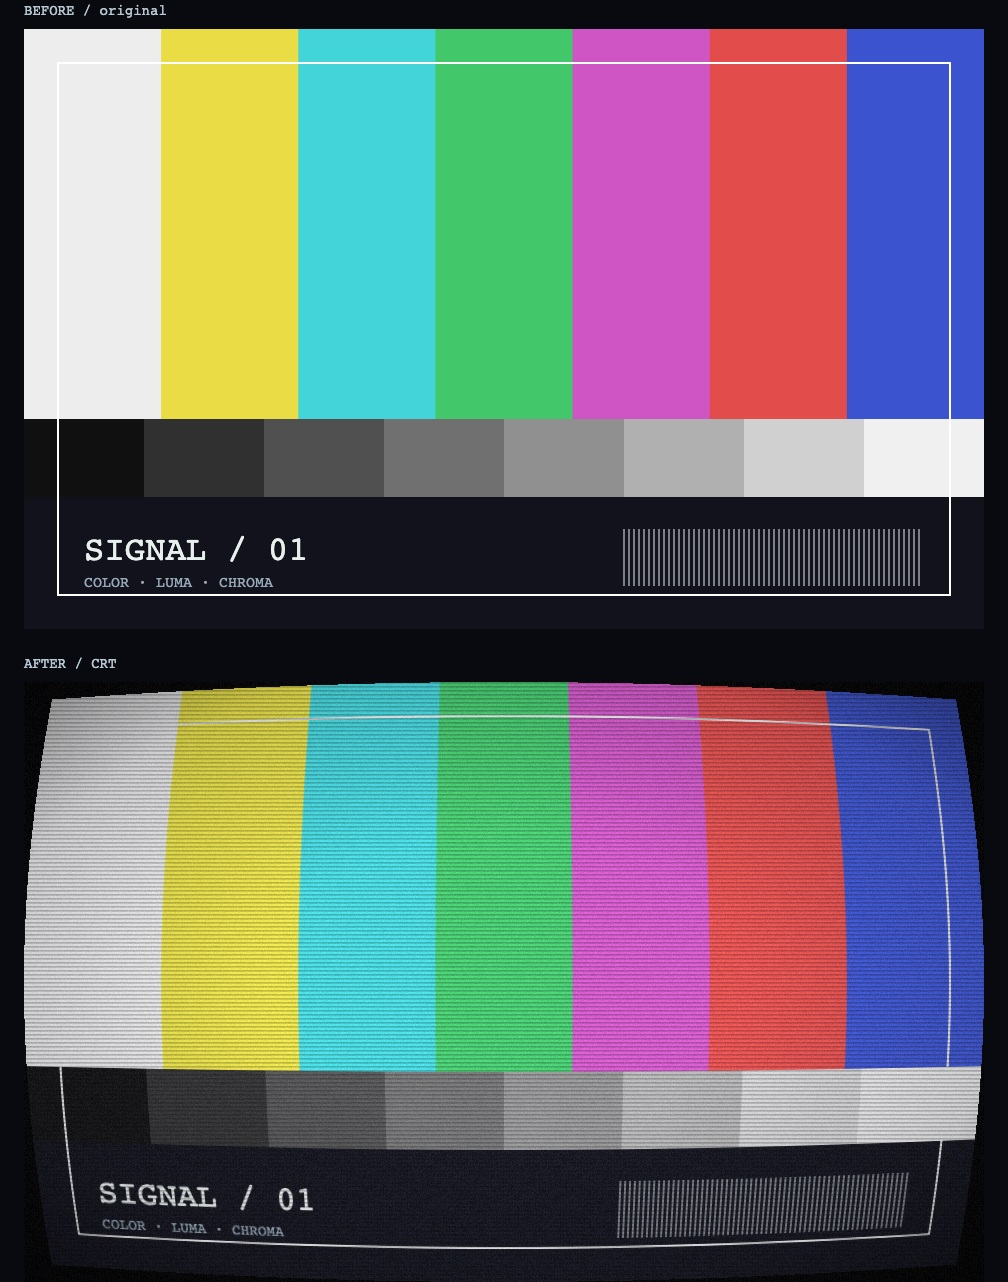
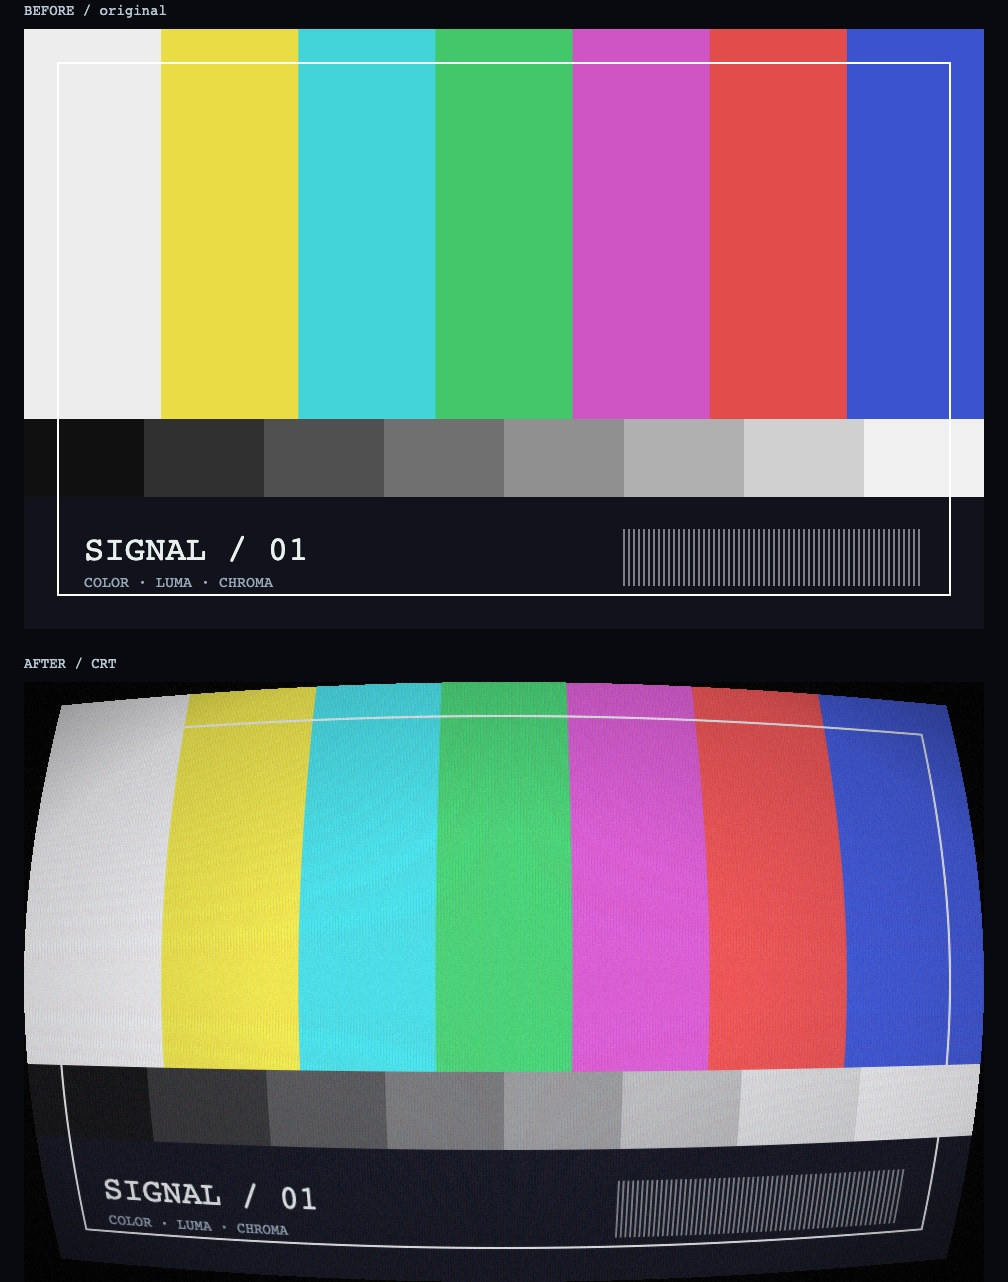
Curve phosphor masks with the shared screen geometry

Changed region(s): [[0.0308, 0.5304, 0.9841, 0.9984]]

diff --git a/dist/crt-effect.js b/dist/crt-effect.js
@@ -1,4 +1,4 @@
-// crt-effect v1.1.5 | MIT | https://github.com/therealericsun/crt-effect
+// crt-effect v1.1.6 | MIT | https://github.com/therealericsun/crt-effect
 /** Independent cross-axis barrel sampling, in viewport CSS pixels. */
 function displacement(x, y, width, height, curvature, regions = [], padding = 6, feather = 24) {
   const u = x / width * 2 - 1, v = y / height * 2 - 1;
@@ -11,6 +11,77 @@ function displacement(x, y, width, height, curvature, regions = [], padding = 6,
   }
   return [curvature * width * .5 * u * v * v * weight,
     curvature * height * .5 * v * u * u * weight];
+}
+
+/** Cached RGB glass texture, sampled through the same cross-axis barrel field. */
+function createPhosphorMask(doc, host) {
+  const canvas = doc.createElement('canvas');
+  canvas.dataset.crtMaskPattern = '';
+  canvas.setAttribute('aria-hidden', 'true');
+  canvas.style.cssText = 'display:block;width:100%;height:100%;pointer-events:none!important';
+  host.dataset.crtMask = '';
+  let signature = '';
+  return {
+    paint(width, height, curvature, referenceWidth = width, referenceHeight = height, offsetX = 0, offsetY = 0) {
+      const density = Math.min(doc.defaultView.devicePixelRatio || 1, 2, Math.sqrt(3000000 / (width * height)), 8192 / Math.max(width, height));
+      const key = [width, height, curvature, referenceWidth, referenceHeight, offsetX, offsetY, density].join(',');
+      if (signature === key) return;
+      signature = key;
+      canvas.width = Math.max(1, Math.round(width * density));
+      canvas.height = Math.max(1, Math.round(height * density));
+      const ctx = canvas.getContext('2d');
+      // At each output row, barrel sampling is affine in x. A resampled 1D
+      // strip gives the exact field without a full-screen JS pixel loop.
+      const v2 = Math.max((offsetY / referenceHeight * 2 - 1) ** 2,
+        ((offsetY + height) / referenceHeight * 2 - 1) ** 2);
+      const center = referenceWidth / 2;
+      const left = Math.floor(Math.min(offsetX, center + (offsetX - center) * (1 + curvature * v2))) - 2;
+      const right = Math.ceil(Math.max(offsetX + width, center + (offsetX + width - center) * (1 + curvature * v2))) + 2;
+      const strip = doc.createElement('canvas'), tile = doc.createElement('canvas');
+      const resolution = Math.min(Math.max(4, density * 4), 16000 / (right - left));
+      strip.width = Math.ceil((right - left) * resolution); strip.height = 1;
+      tile.width = Math.max(3, Math.round(3 * resolution)); tile.height = 1;
+      const tileContext = tile.getContext('2d');
+      const pixels = tileContext.createImageData(tile.width, 1);
+      // Match CSS gradient interpolation in premultiplied sRGB, including the
+      // transparent gap. Canvas gradients interpolate alpha differently.
+      for (let i = 0; i < tile.width; i++) {
+        const phase = (i + .5) / tile.width * 3;
+        const rgb = phase < 1 ? [68 * (1 - phase), 34 * phase, 0]
+          : phase < 2 ? [0, 34 * (2 - phase), 68 * (phase - 1)] : [0, 0, 68 * (3 - phase)];
+        const alpha = rgb[0] + rgb[1] + rgb[2];
+        for (let c = 0; c < 3; c++) pixels.data[i * 4 + c] = Math.round(rgb[c] / alpha * 255);
+        pixels.data[i * 4 + 3] = Math.round(alpha);
+      }
+      tileContext.putImageData(pixels, 0, 0);
+      const stripContext = strip.getContext('2d');
+      // Keep phase in shared viewport coordinates, including cropped panels.
+      stripContext.scale(resolution, 1);
+      stripContext.translate(-left, 0);
+      const pattern = stripContext.createPattern(tile, 'repeat');
+      pattern.setTransform(new doc.defaultView.DOMMatrix().scale(3 / tile.width, 1));
+      stripContext.fillStyle = pattern; stripContext.fillRect(left, 0, right - left, 1);
+      for (let row = 0; row < canvas.height; row++) {
+        const y = offsetY + (row + .5) * height / canvas.height;
+        const v = y / referenceHeight * 2 - 1;
+        const scale = 1 + curvature * v * v;
+        // Clip to the curved glass: neither sampled axis may leave the screen.
+        if (Math.abs(v) >= 1) continue;
+        const limitX = 1 / scale;
+        const limitY = curvature && v ? Math.sqrt((1 / Math.abs(v) - 1) / curvature) : 1;
+        const limit = Math.min(limitX, limitY);
+        const from = Math.max(0, center * (1 - limit) - offsetX);
+        const to = Math.min(width, center * (1 + limit) - offsetX);
+        if (to <= from) continue;
+        const start = center + (offsetX + from - center) * scale;
+        ctx.drawImage(strip, (start - left) * resolution, 0, (to - from) * scale * resolution, 1,
+          from / width * canvas.width, row, (to - from) / width * canvas.width, 1);
+      }
+      host.append(canvas);
+      strip.width = tile.width = 1;
+    },
+    destroy() { canvas.remove(); canvas.width = canvas.height = 1; signature = ''; },
+  };
 }
 
 
@@ -93,7 +164,7 @@ export function createCRT(target, options = {}) {
     return el;
   };
   const scanlines = layer(), mask = layer(), grain = layer(), vignette = layer();
-  mask.style.background = 'repeating-linear-gradient(90deg,#f004 0px,#0f02 1px,#00f4 2px,transparent 3px)';
+  const phosphor = createPhosphorMask(doc, mask);
   grain.style.backgroundSize = '128px 128px';
   vignette.style.background = 'radial-gradient(ellipse at center,transparent 35%,#0005 75%,#000 100%)';
   (doc.body || doc.documentElement).append(defsHost, overlay);
@@ -184,6 +255,9 @@ export function createCRT(target, options = {}) {
     const { width, height } = bounds;
     if (!width || !height) { overlay.style.display = 'none'; return; }
     overlay.style.display = 'block';
+    // A root SVG filter already samples its overlay; avoid a second warp.
+    const rootSamplesOverlay = root && !/Firefox\//.test(win.navigator.userAgent);
+    if (settings.mask) phosphor.paint(width, height, rootSamplesOverlay ? 0 : settings.curvature, reference.width, reference.height, offsetX, offsetY);
     Object.assign(overlay.style, { left: `${paintedBounds.left}px`, top: `${paintedBounds.top}px`, width: `${paintedBounds.width}px`, height: `${paintedBounds.height}px` });
     const custom = settings.protect ? [...target.querySelectorAll(settings.protect)] : [];
     if (settings.protect && target.matches(settings.protect)) custom.unshift(target);
@@ -333,6 +407,7 @@ export function createCRT(target, options = {}) {
       cleanups.forEach(remove => remove());
       restoreFilter();
       clearControls();
+      phosphor.destroy();
       overlay.remove();
       defsHost.remove();
       instances.delete(target);
@@ -451,7 +526,7 @@ export function createWebGLCRT(target, options = {}) {
   const scan = doc.createElement('div'), mask = doc.createElement('div'), grain = doc.createElement('div'), shade = doc.createElement('div');
   for (const el of [scan, mask, grain, shade]) el.style.cssText = 'position:absolute;inset:0;pointer-events:none!important';
   overlay.append(scan, mask, grain, shade);
-  mask.style.background = 'repeating-linear-gradient(90deg,#f004 0px,#0f02 1px,#00f4 2px,transparent 3px)';
+  const phosphor = createPhosphorMask(doc, mask);
   shade.style.background = 'radial-gradient(ellipse at center,transparent 35%,#0005 75%,#000 100%)';
   grain.dataset.crtGrain = '';
   scan.dataset.crtScanlines = '';
@@ -535,6 +610,7 @@ export function createWebGLCRT(target, options = {}) {
     output.style.display = overlay.style.display = 'block';
     if (bezel) bezel.style.display = 'block';
     updateAperture(bounds);
+    if (settings.mask) phosphor.paint(width, height, settings.curvature);
     const density = Math.min(pixelRatio, Math.sqrt(maxPixels / (width * height)), maxTextureSize / Math.max(width, height));
     const w = Math.max(1, Math.round(width * density)), h = Math.max(1, Math.round(height * density));
     if (output.width !== w || output.height !== h) { output.width = w; output.height = h; }
@@ -617,7 +693,7 @@ export function createWebGLCRT(target, options = {}) {
     destroy() {
       if (destroyed) return;
       destroyed = true; win.cancelAnimationFrame(frame); win.clearTimeout(timer); observer.disconnect(); removers.forEach(remove => remove());
-      restoreSources(); release(); noiseFrames.length = 0; output.remove(); overlay.remove(); bezel?.remove(); output.width = output.height = 1;
+      restoreSources(); release(); phosphor.destroy(); noiseFrames.length = 0; output.remove(); overlay.remove(); bezel?.remove(); output.width = output.height = 1;
       gl.getExtension('WEBGL_lose_context')?.loseContext();
       instances.delete(target);
     },

diff --git a/src/phosphor.js b/src/phosphor.js
@@ -1,0 +1,70 @@
+/** Cached RGB glass texture, sampled through the same cross-axis barrel field. */
+export function createPhosphorMask(doc, host) {
+  const canvas = doc.createElement('canvas');
+  canvas.dataset.crtMaskPattern = '';
+  canvas.setAttribute('aria-hidden', 'true');
+  canvas.style.cssText = 'display:block;width:100%;height:100%;pointer-events:none!important';
+  host.dataset.crtMask = '';
+  let signature = '';
+  return {
+    paint(width, height, curvature, referenceWidth = width, referenceHeight = height, offsetX = 0, offsetY = 0) {
+      const density = Math.min(doc.defaultView.devicePixelRatio || 1, 2, Math.sqrt(3000000 / (width * height)), 8192 / Math.max(width, height));
+      const key = [width, height, curvature, referenceWidth, referenceHeight, offsetX, offsetY, density].join(',');
+      if (signature === key) return;
+      signature = key;
+      canvas.width = Math.max(1, Math.round(width * density));
+      canvas.height = Math.max(1, Math.round(height * density));
+      const ctx = canvas.getContext('2d');
+      // At each output row, barrel sampling is affine in x. A resampled 1D
+      // strip gives the exact field without a full-screen JS pixel loop.
+      const v2 = Math.max((offsetY / referenceHeight * 2 - 1) ** 2,
+        ((offsetY + height) / referenceHeight * 2 - 1) ** 2);
+      const center = referenceWidth / 2;
+      const left = Math.floor(Math.min(offsetX, center + (offsetX - center) * (1 + curvature * v2))) - 2;
+      const right = Math.ceil(Math.max(offsetX + width, center + (offsetX + width - center) * (1 + curvature * v2))) + 2;
+      const strip = doc.createElement('canvas'), tile = doc.createElement('canvas');
+      const resolution = Math.min(Math.max(4, density * 4), 16000 / (right - left));
+      strip.width = Math.ceil((right - left) * resolution); strip.height = 1;
+      tile.width = Math.max(3, Math.round(3 * resolution)); tile.height = 1;
+      const tileContext = tile.getContext('2d');
+      const pixels = tileContext.createImageData(tile.width, 1);
+      // Match CSS gradient interpolation in premultiplied sRGB, including the
+      // transparent gap. Canvas gradients interpolate alpha differently.
+      for (let i = 0; i < tile.width; i++) {
+        const phase = (i + .5) / tile.width * 3;
+        const rgb = phase < 1 ? [68 * (1 - phase), 34 * phase, 0]
+          : phase < 2 ? [0, 34 * (2 - phase), 68 * (phase - 1)] : [0, 0, 68 * (3 - phase)];
+        const alpha = rgb[0] + rgb[1] + rgb[2];
+        for (let c = 0; c < 3; c++) pixels.data[i * 4 + c] = Math.round(rgb[c] / alpha * 255);
+        pixels.data[i * 4 + 3] = Math.round(alpha);
+      }
+      tileContext.putImageData(pixels, 0, 0);
+      const stripContext = strip.getContext('2d');
+      // Keep phase in shared viewport coordinates, including cropped panels.
+      stripContext.scale(resolution, 1);
+      stripContext.translate(-left, 0);
+      const pattern = stripContext.createPattern(tile, 'repeat');
+      pattern.setTransform(new doc.defaultView.DOMMatrix().scale(3 / tile.width, 1));
+      stripContext.fillStyle = pattern; stripContext.fillRect(left, 0, right - left, 1);
+      for (let row = 0; row < canvas.height; row++) {
+        const y = offsetY + (row + .5) * height / canvas.height;
+        const v = y / referenceHeight * 2 - 1;
+        const scale = 1 + curvature * v * v;
+        // Clip to the curved glass: neither sampled axis may leave the screen.
+        if (Math.abs(v) >= 1) continue;
+        const limitX = 1 / scale;
+        const limitY = curvature && v ? Math.sqrt((1 / Math.abs(v) - 1) / curvature) : 1;
+        const limit = Math.min(limitX, limitY);
+        const from = Math.max(0, center * (1 - limit) - offsetX);
+        const to = Math.min(width, center * (1 + limit) - offsetX);
+        if (to <= from) continue;
+        const start = center + (offsetX + from - center) * scale;
+        ctx.drawImage(strip, (start - left) * resolution, 0, (to - from) * scale * resolution, 1,
+          from / width * canvas.width, row, (to - from) / width * canvas.width, 1);
+      }
+      host.append(canvas);
+      strip.width = tile.width = 1;
+    },
+    destroy() { canvas.remove(); canvas.width = canvas.height = 1; signature = ''; },
+  };
+}

diff --git a/src/webgl.js b/src/webgl.js
@@ -102,7 +102,7 @@ export function createWebGLCRT(target, options = {}) {
   const scan = doc.createElement('div'), mask = doc.createElement('div'), grain = doc.createElement('div'), shade = doc.createElement('div');
   for (const el of [scan, mask, grain, shade]) el.style.cssText = 'position:absolute;inset:0;pointer-events:none!important';
   overlay.append(scan, mask, grain, shade);
-  mask.style.background = 'repeating-linear-gradient(90deg,#f004 0px,#0f02 1px,#00f4 2px,transparent 3px)';
+  const phosphor = createPhosphorMask(doc, mask);
   shade.style.background = 'radial-gradient(ellipse at center,transparent 35%,#0005 75%,#000 100%)';
   grain.dataset.crtGrain = '';
   scan.dataset.crtScanlines = '';
@@ -186,6 +186,7 @@ export function createWebGLCRT(target, options = {}) {
     output.style.display = overlay.style.display = 'block';
     if (bezel) bezel.style.display = 'block';
     updateAperture(bounds);
+    if (settings.mask) phosphor.paint(width, height, settings.curvature);
     const density = Math.min(pixelRatio, Math.sqrt(maxPixels / (width * height)), maxTextureSize / Math.max(width, height));
     const w = Math.max(1, Math.round(width * density)), h = Math.max(1, Math.round(height * density));
     if (output.width !== w || output.height !== h) { output.width = w; output.height = h; }
@@ -268,7 +269,7 @@ export function createWebGLCRT(target, options = {}) {
     destroy() {
       if (destroyed) return;
       destroyed = true; win.cancelAnimationFrame(frame); win.clearTimeout(timer); observer.disconnect(); removers.forEach(remove => remove());
-      restoreSources(); release(); noiseFrames.length = 0; output.remove(); overlay.remove(); bezel?.remove(); output.width = output.height = 1;
+      restoreSources(); release(); phosphor.destroy(); noiseFrames.length = 0; output.remove(); overlay.remove(); bezel?.remove(); output.width = output.height = 1;
       gl.getExtension('WEBGL_lose_context')?.loseContext();
       instances.delete(target);
     },

diff --git a/src/crt-effect.js b/src/crt-effect.js
@@ -1,4 +1,5 @@
 import { displacement } from './geometry.js';
+import { createPhosphorMask } from './phosphor.js';
 
 export const balanced = Object.freeze({
   preset: 'balanced', enabled: true, curvature: .035, grain: .025, grainFPS: 12,
@@ -79,7 +80,7 @@ export function createCRT(target, options = {}) {
     return el;
   };
   const scanlines = layer(), mask = layer(), grain = layer(), vignette = layer();
-  mask.style.background = 'repeating-linear-gradient(90deg,#f004 0px,#0f02 1px,#00f4 2px,transparent 3px)';
+  const phosphor = createPhosphorMask(doc, mask);
   grain.style.backgroundSize = '128px 128px';
   vignette.style.background = 'radial-gradient(ellipse at center,transparent 35%,#0005 75%,#000 100%)';
   (doc.body || doc.documentElement).append(defsHost, overlay);
@@ -170,6 +171,9 @@ export function createCRT(target, options = {}) {
     const { width, height } = bounds;
     if (!width || !height) { overlay.style.display = 'none'; return; }
     overlay.style.display = 'block';
+    // A root SVG filter already samples its overlay; avoid a second warp.
+    const rootSamplesOverlay = root && !/Firefox\//.test(win.navigator.userAgent);
+    if (settings.mask) phosphor.paint(width, height, rootSamplesOverlay ? 0 : settings.curvature, reference.width, reference.height, offsetX, offsetY);
     Object.assign(overlay.style, { left: `${paintedBounds.left}px`, top: `${paintedBounds.top}px`, width: `${paintedBounds.width}px`, height: `${paintedBounds.height}px` });
     const custom = settings.protect ? [...target.querySelectorAll(settings.protect)] : [];
     if (settings.protect && target.matches(settings.protect)) custom.unshift(target);
@@ -319,6 +323,7 @@ export function createCRT(target, options = {}) {
       cleanups.forEach(remove => remove());
       restoreFilter();
       clearControls();
+      phosphor.destroy();
       overlay.remove();
       defsHost.remove();
       instances.delete(target);

diff --git a/demo/showcase.js b/demo/showcase.js
@@ -2,9 +2,9 @@ import { createWebGLCRT } from '../dist/crt-effect.js';
 
 // These are example overrides, not additional library presets.
 const examples = {
-  analog: { options: { curvature:.09,grain:.075,scanlines:.36,scanlineSpacing:4,mask:.12,vignette:.65,glow:.18 }, draw:earthrise },
-  broadcast: { options: { curvature:.07,grain:.06,scanlines:.32,scanlineSpacing:4,mask:.15,vignette:.45,glow:.12 }, draw:broadcast },
-  arcade: { options: { curvature:.12,grain:.05,scanlines:.50,scanlineSpacing:4,mask:.20,vignette:.65,glow:.35 }, draw:arcade },
+  analog: { options: { curvature:.09,grain:.075,scanlines:.36,scanlineSpacing:4,mask:.20,vignette:.65,glow:.18 }, draw:earthrise },
+  broadcast: { options: { curvature:.10,grain:.045,scanlines:0,scanlineSpacing:4,mask:.35,vignette:.45,glow:.12 }, draw:broadcast },
+  arcade: { options: { curvature:.12,grain:.05,scanlines:.50,scanlineSpacing:4,mask:.30,vignette:.65,glow:.35 }, draw:arcade },
   terminal: { options: { curvature:.085,grain:.10,scanlines:.42,scanlineSpacing:3,mask:0,vignette:.65,glow:.45 }, draw:terminal },
 };
 const screen = document.querySelector('#screen'), canvas = document.querySelector('#source');

diff --git a/README.md b/README.md
@@ -6,7 +6,7 @@ Dependency-free CRT effects for live HTML and canvas: curvature, grain, scanline
 
 ![Earthrise before (top) and after CRT (bottom)](docs/images/analog-comparison.jpg)
 
-**Broadcast test card** — grain `.06`, phosphor mask `.15`.
+**Broadcast test card** — curvature `.10`, phosphor mask `.35`, no scanlines.
 
 ![Broadcast card before (top) and after CRT (bottom)](docs/images/broadcast-comparison.jpg)
 
@@ -45,7 +45,7 @@ const gpu = createWebGLCRT(screen, {
 gpu.render(); // Use render(false) after moving unchanged sources to reuse GPU textures.
 ```
 
-Grain, scanlines, mask and vignette share an overlay above canvas and HTML; keep native panels below its `z-index: 8`.
+Grain, scanlines, mask and vignette share an overlay above canvas and HTML; keep native panels below its `z-index: 8`. The phosphor mask follows the screen’s curvature and shared viewport; its texture is cached between geometry changes.
 
 WebGL 2 falls back to WebGL 1. Source canvases remain available for native interaction; disabling, context loss or teardown restores their visibility. Output defaults to at most 2× density and 3 million pixels (`pixelRatio`, `maxPixels`). `renderer` and `contextLost` expose status. `sources`, resolution and aperture are construction options.
 

diff --git a/AGENTS.md b/AGENTS.md
@@ -2,7 +2,7 @@
 
 - Import `createCRT` / `createWebGLCRT` from `dist/crt-effect.js`; see README for options.
 - Use WebGL for canvases; call `render()` after drawing. Keep HTML semantic and selectable.
-- Share one `viewport` and curvature across HTML/GPU layers; avoid styled `crt-*` div IDs (ad blockers hide them).
+- The phosphor mask follows curvature. Share one `viewport` and curvature across HTML/GPU layers; avoid styled `crt-*` div IDs (ad blockers hide them).
 - Safari may bypass SVG filters on composited children. Put canvas graphics in WebGL and avoid CSS animation inside filtered HTML.
 - Keep native panels below the GPU host’s texture overlay (z-index 8), so grain, phosphor mask and scanlines cover HTML too; match HTML glow with `text-shadow`.
 - Respect reduced motion, visibility, native interaction and `destroy()` cleanup.

diff --git a/VALIDATION.md b/VALIDATION.md
@@ -18,3 +18,5 @@ Safari 26.5 was inspected directly. Initial maps and a first GPU frame must be p
 Four generic showcase scenes and their enable/disable controls were checked in all three engines. The portfolio’s ad-block false match was reproduced using EasyList’s `div[id^="crt-"][style]` rule; integrations should avoid those IDs.
 
 Linux CI uses Xvfb and Mesa software rendering. WebKitGTK is detected using the platform as well as the user agent and retains its drawing buffer to avoid [stale frames in its non-DMABUF path](https://bugs.webkit.org/show_bug.cgi?id=324549).
+
+Curved phosphor masks are checked against the barrel field at 1×/2× density in all engines. Cropped HTML panels match the GPU viewport’s mask phase; strength changes reuse the cached texture, while geometry changes repaint it and teardown releases it.
